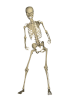
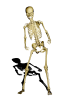
undead animations

diff --git a/witchesAndwerewolves.py b/witchesAndwerewolves.py
@@ -1,9 +1,9 @@
-# urgent, at least trickster has problems with not disabling 'z' during 'a', actually all units
-
+# how to 'stagger' animations...? so they arent all moving in sync
+# randomize starting animation 
 
 # make vis longer in undead_attack, show 'who' is attacking
 
-# undead need shadow for visibility
+# probably make undead move like witches with dist 2 or 1
 
 # still unnecessarily deleting unused 'placement_buttons'
 
@@ -793,12 +793,10 @@ class Undead(Summon):
                 else:
                     root.after(666, lambda e = ents_list : app.do_ai_loop(e))
     
-    # apply damage to target
     def undead_attack(self, ents_list, id):
-        # check if successful to_hit
         if self.to_hit(self.agl, app.ent_dict[id].dodge) == True:
             # HIT, SHOW VIS, DO DAMAGE, EXIT
-            self.hit = tk.Label(app.context_menu, text = 'Attack Hit!', wraplength = 190, font = ('chalkduster', 24), fg = 'indianred', bg = 'tan2')
+            self.hit = tk.Label(app.context_menu, text = 'Undead Attack Hit!', wraplength = 190, font = ('chalkduster', 24), fg = 'indianred', bg = 'tan2')
             self.hit.pack(side = 'top')
             d = self.damage(self.str, app.ent_dict[id].end)
             self.dam = tk.Label(app.context_menu, text = str(d) + ' Spirit Damage!', wraplength = 190, font = ('chalkduster', 24), fg = 'indianred', bg = 'tan2')
@@ -806,12 +804,12 @@ class Undead(Summon):
             app.ent_dict[id].set_attr('spirit', -d)
             if app.ent_dict[id].spirit <= 0:
                 app.kill(id)
-            root.after(666, lambda e = ents_list : self.cleanup_attack(e)) # EXIT THROUGH CLEANUP_ATTACK()
+            root.after(1666, lambda e = ents_list : self.cleanup_attack(e)) # EXIT THROUGH CLEANUP_ATTACK()
         else:
             # MISSED, SHOW VIS, EXIT THROUGH CLEANUP_ATTACK()
-            self.miss = tk.Label(app.context_menu, text = 'Missed!', font = ('chalkduster', 24), fg = 'indianred', bg = 'tan2')
+            self.miss = tk.Label(app.context_menu, text = 'Undead Attack Missed!', wraplength = 190, font = ('chalkduster', 24), fg = 'indianred', bg = 'tan2')
             self.miss.pack(side = 'top')
-            root.after(666, lambda e = ents_list : self.cleanup_attack(e))
+            root.after(1666, lambda e = ents_list : self.cleanup_attack(e))
         
     def cleanup_attack(self, ents_list):
         try: self.hit.destroy()
@@ -827,8 +825,6 @@ class Undead(Summon):
             root.after(666, lambda e = ents_list : app.do_ai_loop(e))
         
         
-    # yeah problem is this janky xor, not well thought out...
-    # so why are undead not moving further...
     def legal_attacks(self):
         sqrs = []
         coords = [[x,y] for x in range(app.map_width//100) for y in range(app.map_height//100)]
